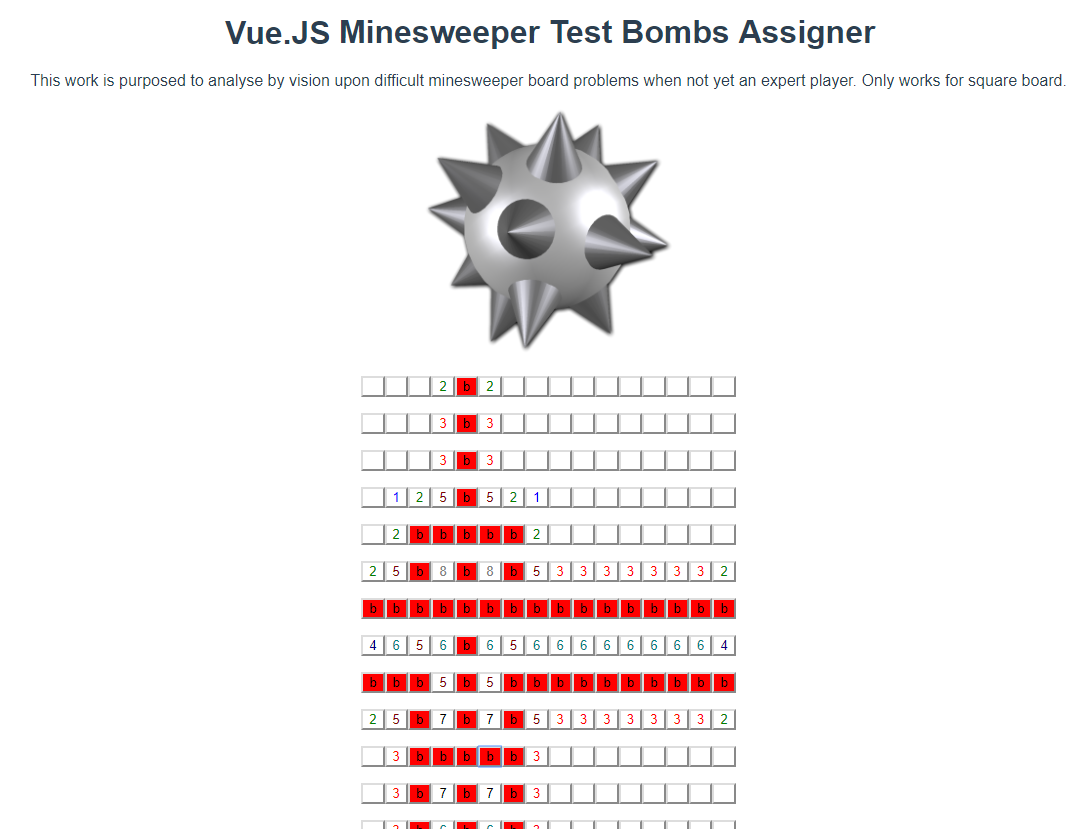
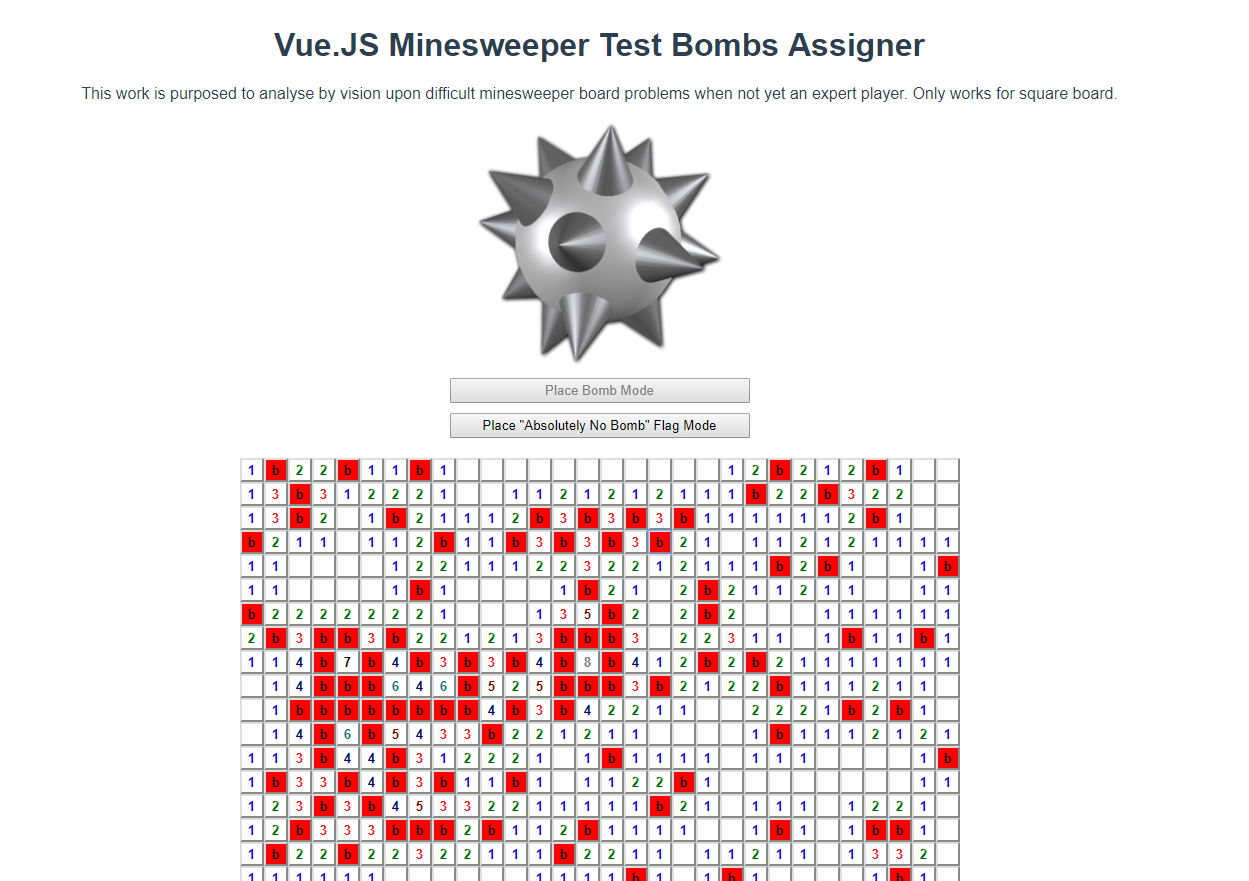
Heaviliy improved layouts.

Changed region(s): [[0.0311, 0.0, 0.9652, 1.0]]

diff --git a/src/components/VueDemo.vue b/src/components/VueDemo.vue
@@ -2,13 +2,13 @@
   <div class="hello">
     <img src='@/assets/logo-mine.png'><br>
     
-    <button style="width: 300px; height: 25px;" v-on:click="changeMode" :disabled="bomb_mode">Place Bomb Mode</button><br>
-    <button style="width: 300px; height: 25px;" v-on:click="changeMode" :disabled="!bomb_mode">Place "Absolutely No Bomb" Flag Mode</button><br>
+    <button style="width: 300px; height: 25px; margin: 5px 0px;" v-on:click="changeMode" :disabled="bomb_mode">Place Bomb Mode</button><br>
+    <button style="width: 300px; height: 25px; margin-top: 5px; margin-bottom: 20px;" v-on:click="changeMode" :disabled="!bomb_mode">Place "Absolutely No Bomb" Flag Mode</button><br>
 	
-    <p v-for="j in b_height"><a v-for="i in b_width">
-      <input type="button" style="color:white; background-color: white;"
-      :id="'btn' + i + '_' + j" v-on:click="addOrRemoveBomb(i,j)" :disabled="board[j][i] == 9" :value="board[j][i]"></input></a>
-    </p>
+    <a v-for="j in b_height"><a v-for="i in b_width">
+      <input type="button" style="color:white; background-color: white; width: 24px; height: 24px; font-weight: bold;"
+      :id="'btn' + i + '_' + j" v-on:click="addOrRemoveBomb(i,j)" :disabled="board[j][i] == 9" :value="board[j][i]"></input></a><br>
+    </a>
     <p>---</p>
 
 
@@ -303,6 +303,10 @@ a {
 
 img {
   width: 250px;
+}
+
+.field_br {
+   content: " ";
 }
 
 </style>
